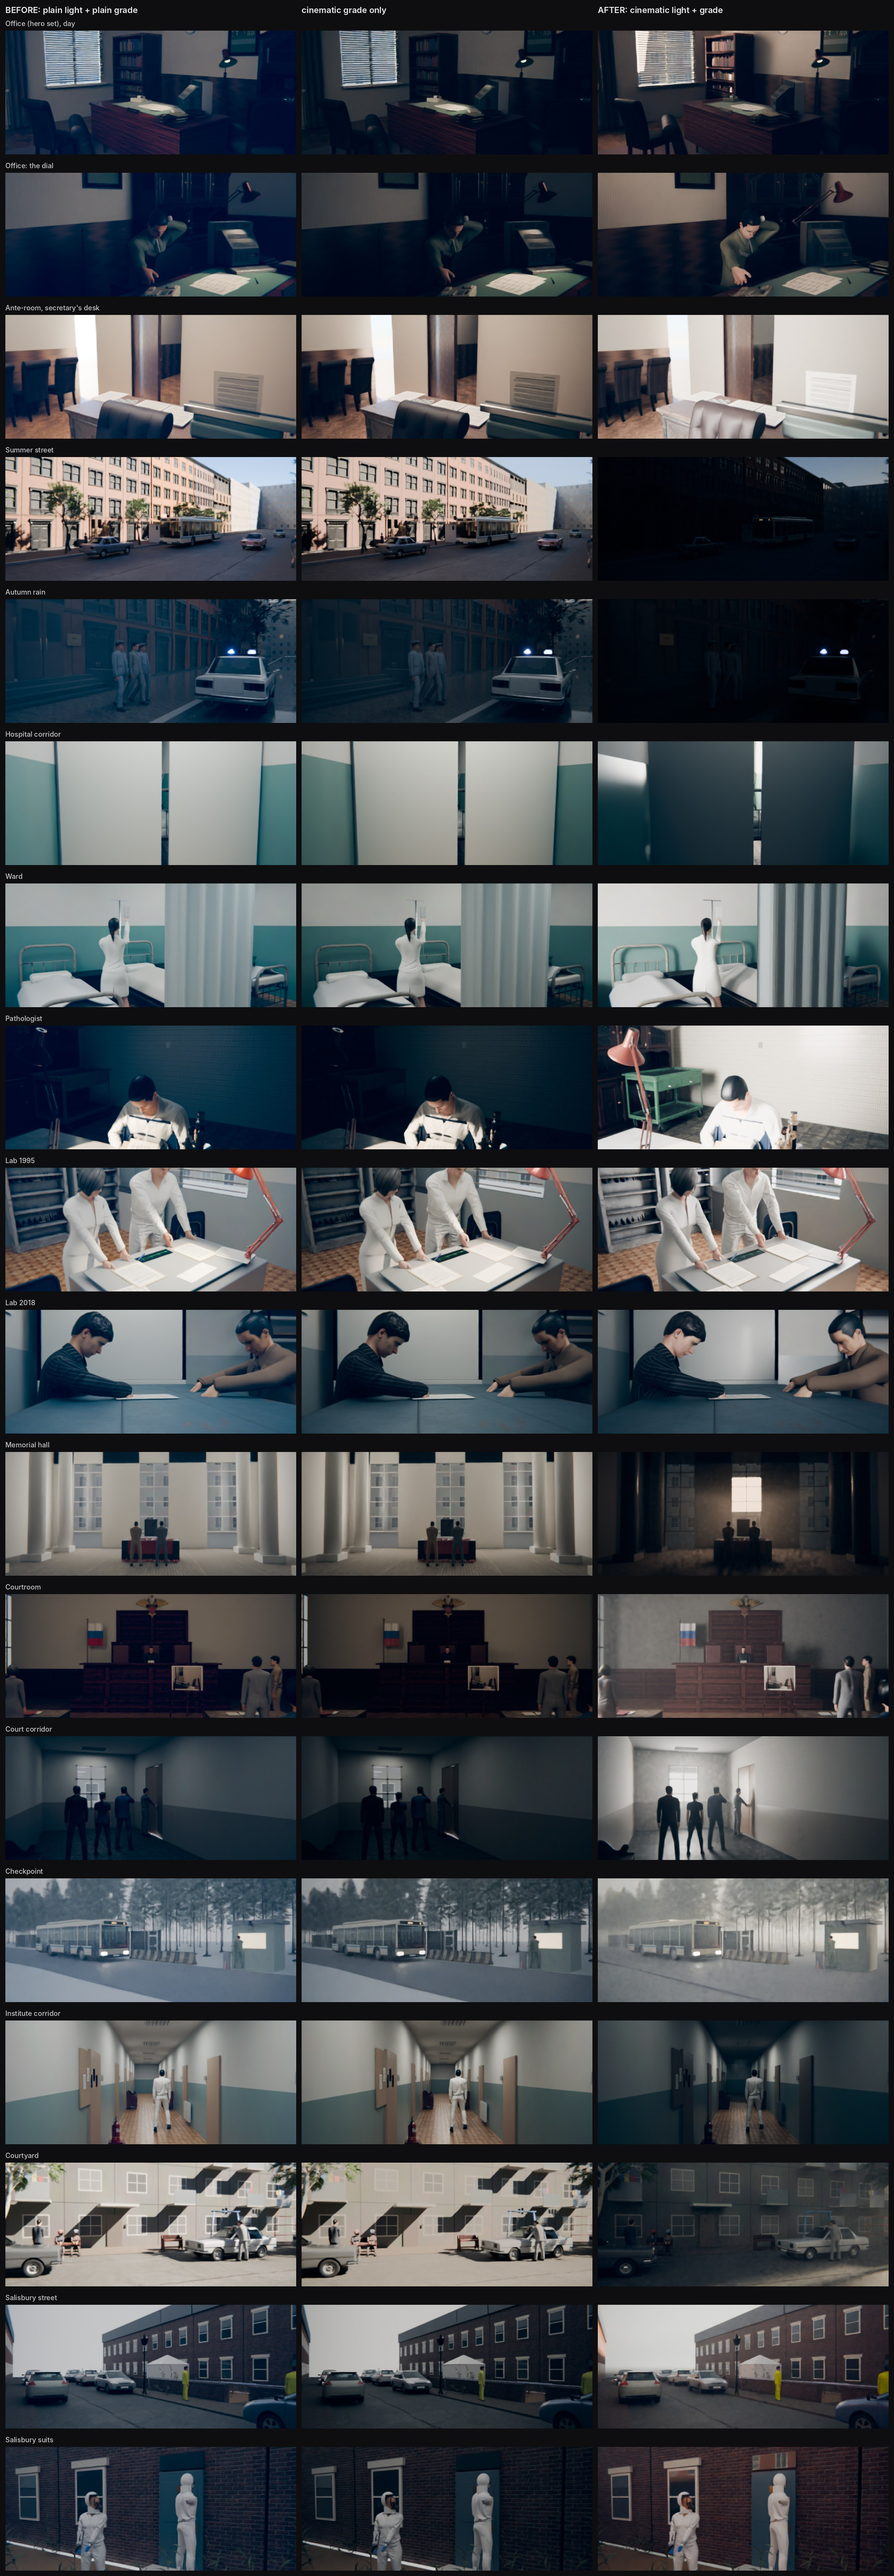
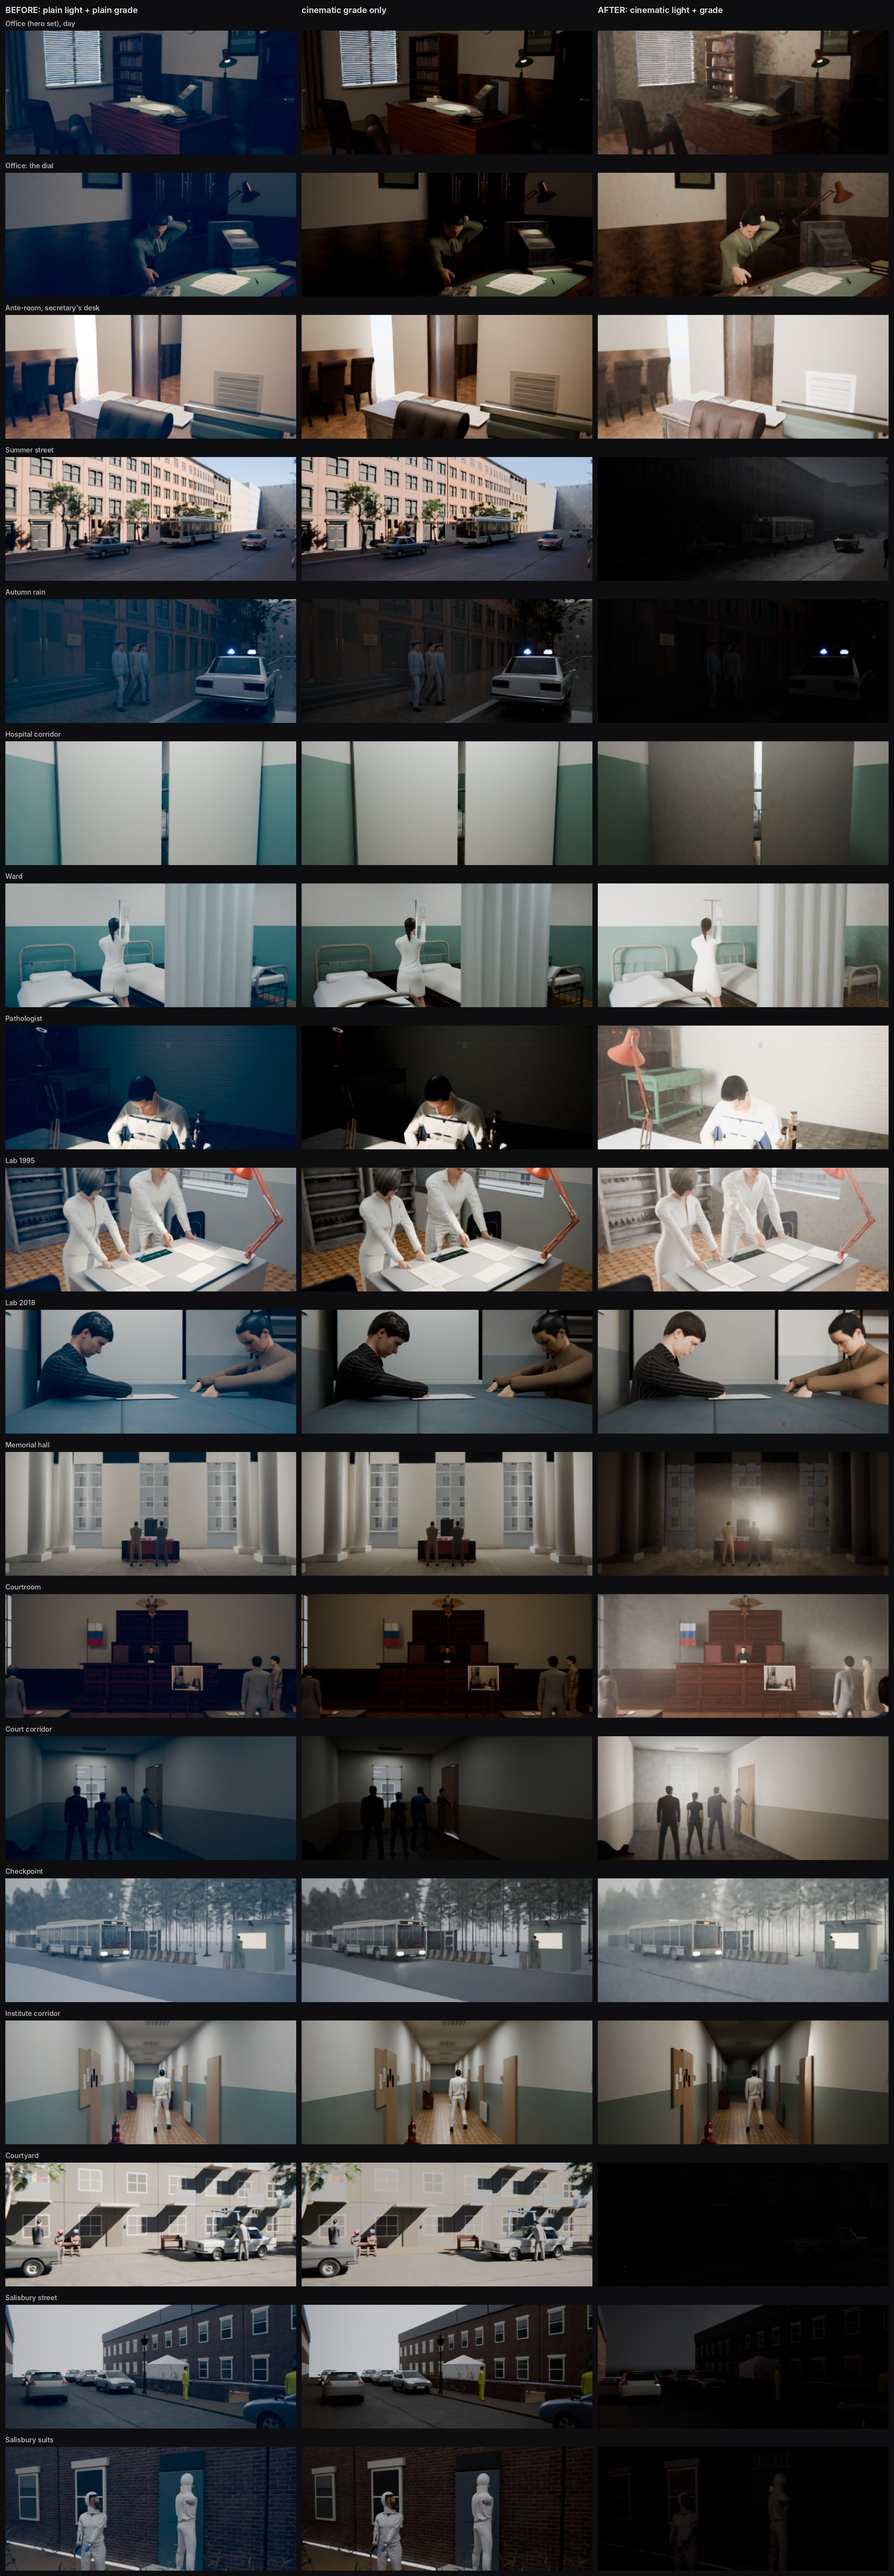
Phone banker look v4: exterior suns from the front side (streets were in full shadow), memorial grade-only, softer pathologist key
Claude-Session: https://claude.ai/code/session_01XfwPSnGcwN4iGzjHJz672Z

diff --git a/projects/phone-banker/scenes/pblook.py b/projects/phone-banker/scenes/pblook.py
@@ -20,17 +20,17 @@ PLAN = {
     },
     "sc_bank": {
         "dusk": (KEEP, {}),
-        "summer": (EXT, dict(mood="overcast", azim=115, haze_box=((0, -10, 12), (220, 60, 24)))),
-        "autumn": (EXT, dict(mood="overcast", azim=150, haze_box=((0, -10, 12), (220, 60, 24)))),
-        "winter": (EXT, dict(mood="overcast", azim=150, haze_box=((0, -10, 12), (220, 60, 24)))),
-        "seasons": (EXT, dict(mood="overcast", azim=150, haze_box=((0, -10, 12), (220, 60, 24)))),
+        "summer": (EXT, dict(mood="overcast", azim=60, haze_box=((0, -10, 12), (220, 60, 24)))),
+        "autumn": (EXT, dict(mood="overcast", azim=60, haze_box=((0, -10, 12), (220, 60, 24)))),
+        "winter": (EXT, dict(mood="overcast", azim=60, haze_box=((0, -10, 12), (220, 60, 24)))),
+        "seasons": (EXT, dict(mood="overcast", azim=60, haze_box=((0, -10, 12), (220, 60, 24)))),
     },
     "sc_hospital": {
         None: (INT, dict(window=((0.0, -11.4, 1.9), (0.0, -5.0, 0.6)), mood="overcast", key_size=1.4, fill=0.35, sky_factor=0.6)),
         "corridor": (INT, dict(window=((0.0, -11.4, 1.9), (0.0, -5.0, 0.6)), mood="overcast", key_size=1.4, fill=0.35, sky_factor=0.6)),
         "dawn": (INT, dict(window=((0.0, -11.4, 1.9), (0.0, -5.0, 0.6)), mood="overcast", key_size=1.4, fill=0.35, sky_factor=0.6)),
         "ward": (INT, dict(window=((-3.9, 0.15, 1.8), (0.5, 1.0, 0.6)), mood="overcast", key_size=1.6, fill=0.35, sky_factor=0.6)),
-        "path": (INT, dict(window=((-2.9, 0.0, 1.75), (-0.8, -1.0, 0.7)), mood="overcast", key_size=1.4, fill=0.35, sky_factor=0.6)),
+        "path": (INT, dict(window=((-2.9, 0.0, 1.75), (-0.8, -1.0, 0.7)), mood="overcast", key_size=1.4, key_energy=160, fill=0.35, sky_factor=0.6)),
         "night": (NIGHT, {}),
         "arrive": (KEEP, {}),
     },
@@ -38,7 +38,7 @@ PLAN = {
         **{v: (INT, dict(window=((-4.4, 0.2, 1.8), (0.0, 0.4, 0.7)), mood="overcast", key_size=1.6, fill=0.35, sky_factor=0.6)) for v in ("lab95", "evid", "y2018", None)},
         "end": (NIGHT, {}),
     },
-    "sc_memorial": {None: (INT, dict(window=((0.0, 11.4, 3.6), (0.0, 4.0, 0.8)), mood="low_sun", key_size=2.4))},
+    "sc_memorial": {None: (KEEP, {}), "_relit": (INT, dict(window=((0.0, 11.4, 3.6), (0.0, 4.0, 0.8)), mood="low_sun", key_size=2.4))},
     "sc_court": {
         "room": (INT, dict(window=((-6.5, 2.0, 2.7), (0.5, 3.0, 0.7)), mood="overcast", key_size=2.4, fill=0.35, sky_factor=0.6)),
         None: (INT, dict(window=((-6.5, 2.0, 2.7), (0.5, 3.0, 0.7)), mood="overcast", key_size=2.4, fill=0.35, sky_factor=0.6)),
@@ -51,8 +51,8 @@ PLAN = {
         "institute": (INT, dict(window=((0.0, 15.4, 1.8), (0.0, 8.0, 0.6)), mood="overcast", key_size=1.4, fill=0.35, sky_factor=0.6)),
         "kitchen": (NIGHT, {}), "blocks": (KEEP, {}),
     },
-    "sc_apartment": {None: (EXT, dict(mood="overcast", azim=105, haze_box=((0, -12, 12), (90, 50, 26))))},
-    "sc_salisbury": {None: (EXT, dict(mood="overcast", azim=140, haze_box=((-10, 0, 10), (120, 60, 22))))},
+    "sc_apartment": {None: (EXT, dict(mood="overcast", azim=-55, haze_box=((0, -12, 12), (90, 50, 26))))},
+    "sc_salisbury": {None: (EXT, dict(mood="overcast", azim=50, haze_box=((-10, 0, 10), (120, 60, 22))))},
     "sc_station": {None: (NIGHT, {})},
 }
 
